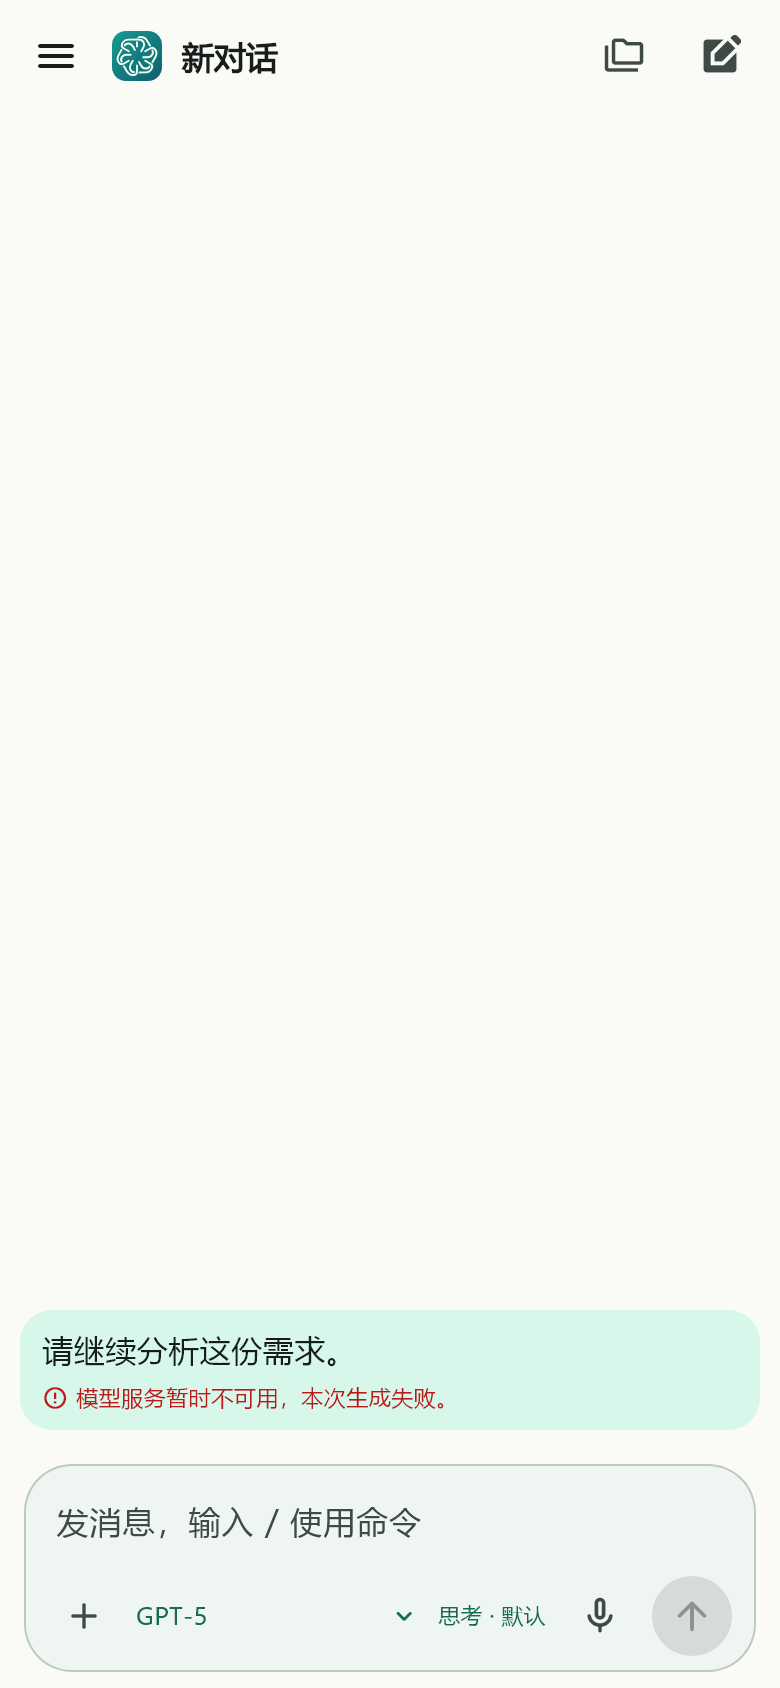
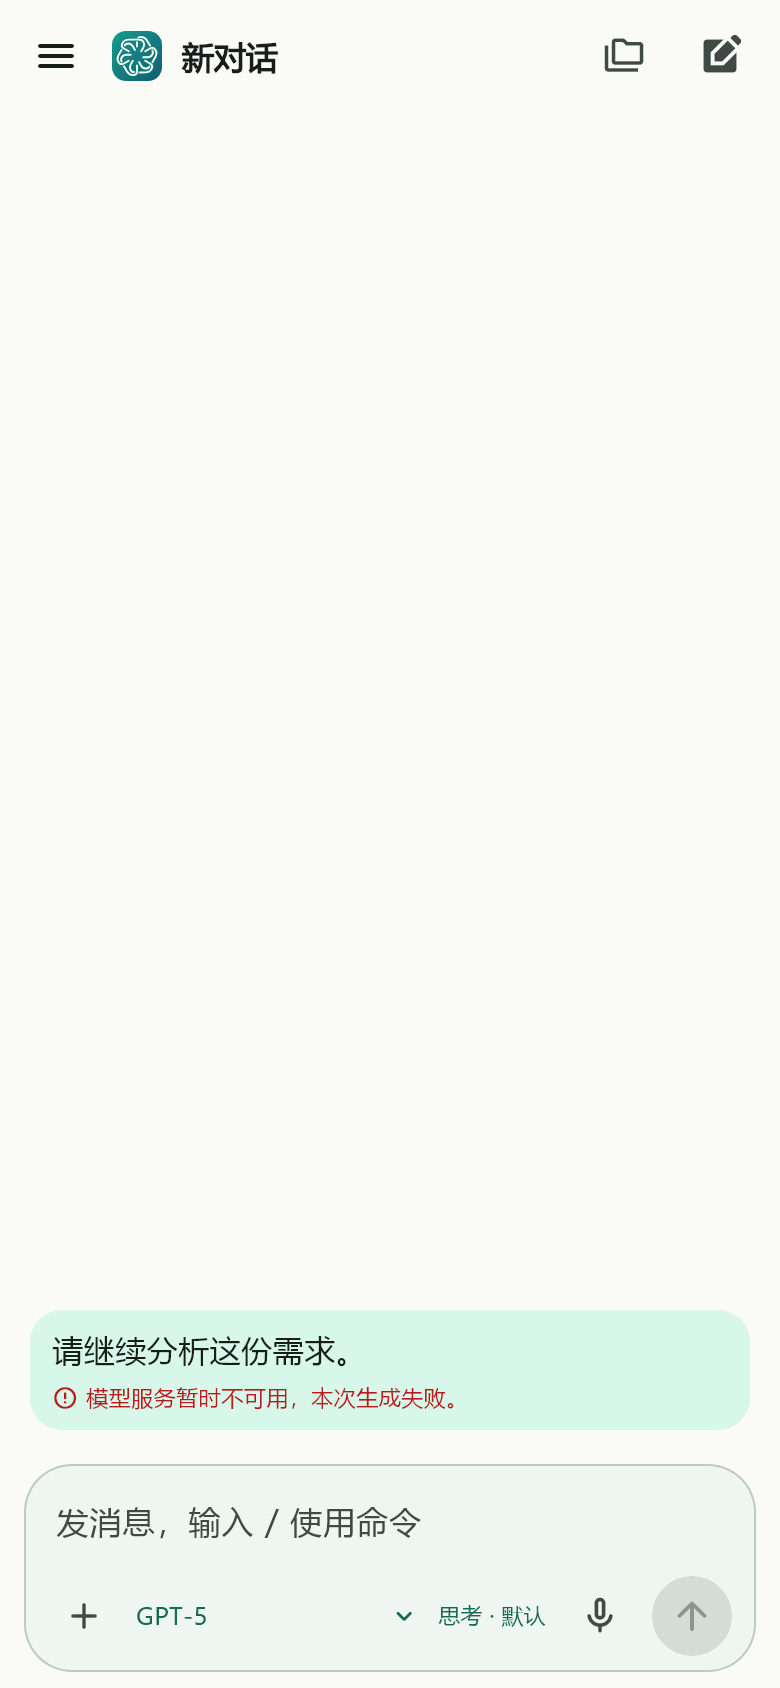
style: set chat side margins to 15

Changed region(s): [[0.0, 0.7701, 0.5538, 0.8626], [0.9538, 0.7701, 0.9846, 0.8626]]

diff --git a/lib/ui/widgets/message_bubble.dart b/lib/ui/widgets/message_bubble.dart
@@ -87,7 +87,7 @@ class MessageBubble extends StatelessWidget {
     if (!message.visible) return const SizedBox.shrink();
     if (message.taskPlan != null) {
       return Padding(
-        padding: const EdgeInsets.symmetric(horizontal: 10, vertical: 5),
+        padding: const EdgeInsets.symmetric(horizontal: 15, vertical: 5),
         child: Align(
           alignment: Alignment.centerLeft,
           child: ConstrainedBox(
@@ -103,7 +103,7 @@ class MessageBubble extends StatelessWidget {
     final colors = Theme.of(context).colorScheme, user = message.role == 'user';
     return RepaintBoundary(
       child: Padding(
-        padding: const EdgeInsets.symmetric(horizontal: 10, vertical: 5),
+        padding: const EdgeInsets.symmetric(horizontal: 15, vertical: 5),
         child: Align(
           alignment: user ? Alignment.centerRight : Alignment.centerLeft,
           child: ConstrainedBox(

diff --git a/test/chat_spacing_model_paint_test.dart b/test/chat_spacing_model_paint_test.dart
@@ -176,7 +176,7 @@ void main() {
   });
   for (final scale in [1.0, 1.8]) {
     testWidgets(
-      'chat content has half outer gutter and shared larger font: scale=$scale',
+      'chat content has 15px outer gutter and shared larger font: scale=$scale',
       (tester) async {
         final width = scale == 1 ? 390.0 : 320.0;
         tester.view.physicalSize = Size(width, 900);
@@ -220,8 +220,8 @@ void main() {
         for (final id in ['u', 'a']) {
           final surface = find.byKey(ValueKey('message-surface:$id'));
           final rect = tester.getRect(surface);
-          expect(rect.left, 10);
-          expect(rect.right, width - 10);
+          expect(rect.left, 15);
+          expect(rect.right, width - 15);
           expect(
             tester.widget<Container>(surface).padding,
             const EdgeInsets.symmetric(horizontal: 11, vertical: 8),

diff --git a/docs/release-1.0.22.md b/docs/release-1.0.22.md
@@ -1,0 +1,34 @@
+# Chat Studio 1.0.22（23）
+
+## 调整
+
+根据阅读效果反馈，将聊天内容两侧外边距从 10 调为 **15**。用户、AI 气泡及任务计划卡片的外边距同步；正文仍为 15.5 字号、1.48 行高，气泡内边距水平 11 / 垂直 8、圆角 16 保持不变。本次不改变手势、工作区或模型高亮逻辑。
+
+README 当前布局描述、截图及几何断言同步更新；历史发布记录不改写。
+
+## 验证
+
+- 270 项单元/Widget 测试通过，11 项环境跳过；静态分析、Dart 格式及命名检查通过。
+- 字体预览测试单独通过，重新生成 23 张 PNG，并查看 `chat.png` 的实际 Flutter 布局效果。
+- 本次是纯间距调整，未重复真实 Studio 契约联调；10 项协议测试在 1.0.21 已通过。未进行 Android 真机、iOS 编译或远端 Actions 验证。
+- Windows 已构建 APK / AAB Release；APK v2 签名、非调试/AOT、应用标识与版本校验通过，AAB bundletool validate / jarsigner verify 通过。
+- AAB 仍有既有自签名证书、无时间戳和 ZIP/JAR 流读取差异警告，不代表已通过商店审核。
+
+## 产物
+
+应用 ID `ai.chatstudio.app`，versionName `1.0.22` / versionCode `23`，沿用原签名，可覆盖同包名、同签名的旧版。
+
+```text
+dist/chatstudio-1.0.22-android-release.apk
+dist/chatstudio-1.0.22-android-release.aab
+dist/chatstudio-1.0.22-SHA256SUMS.txt
+```
+
+SHA-256：
+
+```text
+061bdfb36c864559c313ff23d55c357b2d55198dc9076d9387ec3ab7b1ca4551  chatstudio-1.0.22-android-release.apk
+3315cf3f454c20a2d60d536b73b743724c12e3e706b8db4eefed418b1afb00ce  chatstudio-1.0.22-android-release.aab
+```
+
+仅本地提交源码和文档，未推送远端；包文件、日志和签名密钥不提交。

diff --git a/README.md b/README.md
@@ -19,7 +19,7 @@ Android / iOS 上的轻量 Hermes Studio 客户端。面向 **hermes-studio v1.0
 - Agent 任务计划：轻量折叠卡片展示当前步骤、完成数量与进度，展开查看步骤状态；实时更新、历史恢复和断线重连按服务端版本去重，运行结束不会自动勾选未完成步骤。详见 [任务计划协议与实现](docs/task-plans.md)。
 - 新建页及聊天阅读区右滑打开对话记录、左滑打开服务器工作区；支持从正文开始滑动，输入框与长按选字不触发抽屉。
 - 服务器工作区：查看当前对话的远程绝对路径、浏览子目录、选择服务器文件夹；选择使用服务端 `fullPath`，不是手机存储路径。任务运行期间不能切换目录，目录错误在工作区内提示。详见 [工作区与手势说明](docs/workspace-navigation.md)。
-- 用户和 AI 普通正文统一 15.5 字号及 1.48 行高，Markdown 标题/代码保留语义层级；聊天内容两侧留白为 10，气泡内边距收紧，为正文提供更多空间。
+- 用户和 AI 普通正文统一 15.5 字号及 1.48 行高，Markdown 标题/代码保留语义层级；聊天内容两侧留白为 15，气泡内边距收紧，为正文提供更多空间。
 - 原生文件与相册选择、图片发送前预览、附件移除；最多 5 个，单个 20 MB、总计 40 MB，点击发送才上传。
 - 原生麦克风录音 → 当前 Profile 的服务端 STT → 可编辑草稿；最长 60 秒，取消/后台停止，不自动发送。
 - 工具授权/拒绝、澄清问题；审批失败保留卡片，过期或提交中防重复操作，永久授权按服务端能力显示并二次确认。

diff --git a/docs/screenshots/README.md b/docs/screenshots/README.md
@@ -1,6 +1,6 @@
 # 界面截图与复现
 
-更新时间：2026-09-16。对应源码版本：`1.0.21+22`。
+更新时间：2026-09-16。对应源码版本：`1.0.22+23`。
 
 这些 PNG 由 `test/preview_test.dart` 直接渲染应用的真实 Flutter 组件，使用确定性测试数据。不是设计稿贴图，也不是真机截图。更新界面后应重新运行此测试，不能只替换 README 文案。
 
@@ -17,7 +17,7 @@
 | `workspace-folders.png` | 服务器文件夹分层浏览与绝对路径选择 |
 | `home.png` | 新对话、图标 Agent 选择入口，输入框内模型和思考入口 |
 | `agents.png` | 服务端已安装 Agent 的图标/名称选择面板、当前项置顶和刷新 |
-| `chat.png` / `chat-dark.png` | 会话标题、淡色用户/AI 气泡、10 侧边留白、统一 15.5 正文和浅深主题 |
+| `chat.png` / `chat-dark.png` | 会话标题、淡色用户/AI 气泡、15 侧边留白、统一 15.5 正文和浅深主题 |
 | `models.png` | 提供商父子分组、条目内的圆角选中背景 |
 | `models-scrolled.png` / `models-scrolled-dark.png` | 长模型列表上滑，选中项移出视口后标题和搜索框无高亮越界 |
 | `reasoning.png` | 思考深度选择及当前选项 |

diff --git a/docs/testing.md b/docs/testing.md
@@ -1,6 +1,14 @@
 # 验证记录与复现
 
-## 当前验证（2026-09-16，1.0.21）
+## 当前验证（2026-09-16，1.0.22）
+
+- 聊天外边距改为左右各 15，用户/AI/计划卡片对齐；更新布局断言，15.5 正文字号及气泡内边距不变。
+- **270 项单元/Widget 测试通过，11 项环境跳过**；静态分析、格式和应用标识检查通过。
+- 字体截图测试单独通过，重新渲染 **23 张 PNG**，已查看更新后的聊天布局。
+- 本次只调整间距，没有修改服务协议；未重复运行 10 项真实服务契约（上次 1.0.21 全部通过），也未进行真机、iOS 编译或远端 Actions 验证。
+- Android 产物及校验见 [1.0.22 交付记录](release-1.0.22.md)。
+
+## 先前验证（2026-09-16，1.0.21）
 
 - **270 项单元/Widget 测试通过，11 项环境跳过**（10 项真实协议与 1 项字体预览单独运行）。新增 6 项聊天边距/字号、选中语义、按压涟漪及模型列表上滑绘制回归。
 - 浅深主题的像素回归曾在旧实现上复现失败；修复后，100 模型长列表多次滚动/返回时，标题与搜索框区域像素保持不变。

diff --git a/docs/model-highlight.md b/docs/model-highlight.md
@@ -29,6 +29,8 @@
 
 ## 内容空间与字号
 
+以下为 1.0.21 的调整记录；1.0.22 根据阅读反馈，将聊天区左右外边距从 10 回调至 **15**，其余字号、内边距和圆角不变。当前单侧正文总留白为 26。
+
 - 聊天内容左右外边距从 20 → 10，约减半；垂直外间距从 6 → 5。
 - 气泡水平内边距 14 → 11，垂直内边距 10 → 8，圆角 20 → 16；仍保留淡色背景区分用户/AI。
 - 普通正文共享样式字号从 14.5 → 15.5，行高保持 1.48，系统文字缩放继续生效。
